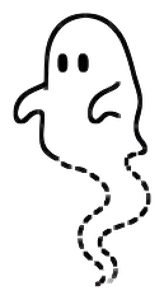
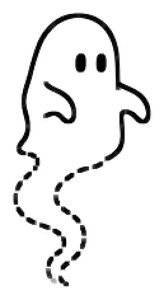
Mirror the ghost so it faces the hero too

Changed region(s): [[0.061, 0.03, 0.9451, 0.96], [0.3354, 0.15, 0.4268, 0.27], [0.4573, 0.18, 0.5488, 0.27]]

diff --git a/tools/cut_sheets.py b/tools/cut_sheets.py
@@ -66,7 +66,7 @@ SHEETS_SPEC = [
 
 # Figuren die op hun vel naar rechts kijken: gespiegeld, zodat ze vanaf rechts de held aankijken.
 # Per tekening, niet per vel: de inspecteur op het bugs-vel keek al naar links.
-FLIP = {"level-256", "flight-501", "the-index", "reckoner"}
+FLIP = {"level-256", "flight-501", "the-index", "reckoner", "ghost"}
 
 FILL = 12          # tot dit kanaalverschil met de achtergrond is een pixel achtergrond
 SOFT = (12, 60)    # zachte rand daarboven
